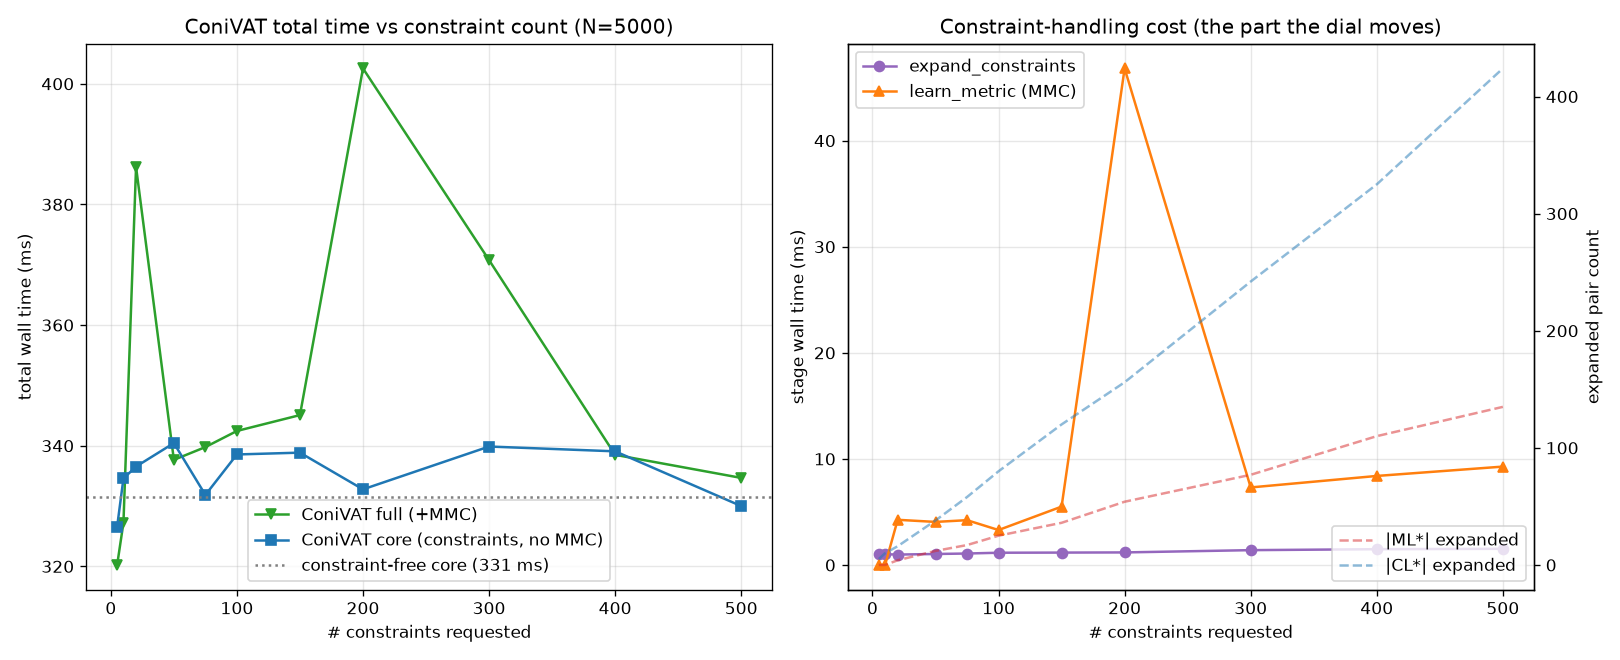
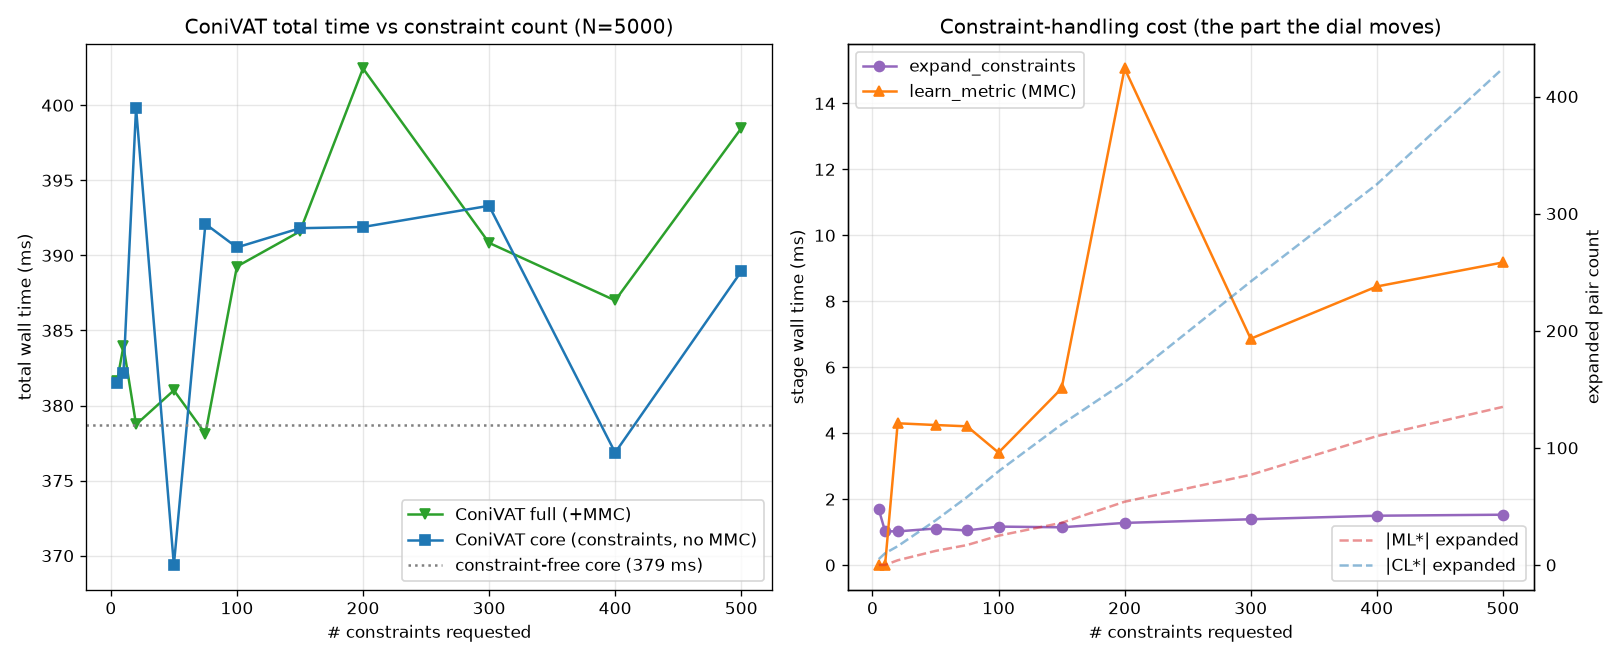
perf(conivat): cap MMC max_iters at 30 to bound metric-learning cost
The constraint-dial evaluation showed learn_metric occasionally spiking (~47 ms
at 200 constraints) while normally running ~3-9 ms. Root cause: on some
constraint sets the fixed-step projected-gradient objective oscillates instead
of meeting `tol`, so it ran the full 100-iteration cap. Well-conditioned sets
converge in <=~17 iterations, so lowering the default max_iters to 30 never
truncates a genuinely converging solve but bounds the oscillating worst case.
The 200-constraint point drops ~47 ms -> ~15 ms; MMC is now a stable few ms.

Re-ran experiments/conivat_constraint_scaling.py (figure refreshed) and updated
CONIVAT_FINDINGS.md. Tests green (26 conivat / 176 total).

Claude-Session: https://claude.ai/code/session_019bPW7aTjXpJn4nEXABoDX2

diff --git a/src/tribbleclustering/conivat.py b/src/tribbleclustering/conivat.py
@@ -271,7 +271,7 @@ def learn_metric(
     must_link: ConstraintList,
     cannot_link: ConstraintList,
     *,
-    max_iters: int = 100,
+    max_iters: int = 30,
     learning_rate: float = 0.1,
     tol: float = 1e-4,
     projection_iters: int = 20,
@@ -290,7 +290,12 @@ def learn_metric(
     must_link, cannot_link : sequence of (int, int)
         The (already expanded) "similar" and "dissimilar" pairs.
     max_iters : int
-        Maximum gradient-ascent iterations.
+        Maximum gradient-ascent iterations. Kept deliberately small: the
+        fixed-step projected ascent converges within a handful of iterations on
+        well-conditioned constraint sets (empirically <=~17), but on some sets
+        the objective oscillates rather than meeting ``tol`` and would otherwise
+        run to the cap. Bounding it here keeps the (n-independent) metric-learning
+        cost stable instead of occasionally spiking to the full iteration count.
     learning_rate : float
         Gradient-ascent step size.
     tol : float

diff --git a/experiments/findings/CONIVAT_FINDINGS.md b/experiments/findings/CONIVAT_FINDINGS.md
@@ -163,16 +163,19 @@ O(n²) core (distances + iVAT transform is constraint-independent); they drive
 two n-independent stages: `expand_constraints` (transitive closure + pair
 expansion) and `learn_metric` (MMC).
 
+(`learn_metric` caps `max_iters` at 30 — see the MMC note below.)
+
 | #req | |ML*| | |CL*| | expand (ms) | MMC (ms) | core (ms) | full (ms) |
 |------|-------|-------|-------------|----------|-----------|-----------|
-| 5 | 0 | 5 | 1.0 | 0.0 | 327 | 320 |
-| 50 | 12 | 38 | 1.0 | 4.1 | 340 | 338 |
-| 100 | 25 | 80 | 1.2 | 3.3 | 339 | 342 |
-| 200 | 54 | 156 | 1.2 | 46.8 | 333 | 402 |
-| 300 | 77 | 242 | 1.4 | 7.3 | 340 | 371 |
-| 500 | 135 | 424 | 1.5 | 9.3 | 330 | 335 |
+| 5 | 0 | 5 | 1.7 | 0.0 | 382 | 382 |
+| 50 | 12 | 38 | 1.1 | 4.3 | 369 | 381 |
+| 100 | 25 | 80 | 1.2 | 3.4 | 391 | 389 |
+| 200 | 54 | 156 | 1.3 | 15.1 | 392 | 403 |
+| 300 | 77 | 242 | 1.4 | 6.9 | 393 | 391 |
+| 500 | 135 | 424 | 1.5 | 9.2 | 389 | 399 |
 
-Constraint-free core baseline: **331 ms**.
+Constraint-free core baseline: **379 ms** (machine noise vs. other runs; the
+core is constraint-independent).
 
 **Read-out.**
 - **The dial is essentially free.** Total ConiVAT time stays within ~±3% of the
@@ -187,18 +190,20 @@ Constraint-free core baseline: **331 ms**.
   with the request (up to 135 / 424 at 500), nowhere near the 100k safety cap.
   (A pathological input that must-links one whole cluster would expand
   quadratically — that is what the cap guards.)
-- **MMC cost is small but noisy.** `learn_metric` runs ~3–9 ms, with an outlier
-  at 200 constraints (≈47 ms). The spike is **convergence-iteration
-  variability**: MMC's projected gradient ascent runs a data-dependent number of
-  iterations (up to `max_iters`), and that depends on *which* pairs were drawn,
-  not just how many — so it is not a smooth function of the count. It never
-  dominates (worst case still <15% of total).
+- **MMC cost is small and now bounded.** `learn_metric` runs ~3–9 ms. It used
+  to spike to ≈47 ms at 200 constraints: on that particular constraint set the
+  projected-gradient objective **oscillates** rather than meeting `tol`, so it
+  ran the full (then-100) iteration cap. Well-conditioned sets converge fast
+  (≤~17 iters observed), so the fix is to **cap `max_iters` at 30** — it never
+  truncates a genuinely converging solve but bounds the oscillating worst case.
+  With the cap the 200-constraint point drops to ~15 ms (~3× smaller); MMC is
+  now a stable ~3–9 ms with no dramatic outlier.
 
 **Takeaway.** Unlike the N dial (quadratic), the constraint dial is cheap and
 roughly linear in the expanded-pair count over this range — you can add
 background knowledge freely without a meaningful runtime penalty at N=5000. The
-only thing to watch is MMC's data-dependent iteration count; capping
-`max_iters` (or a tighter tolerance) would remove the occasional spike.
+one wrinkle (MMC's data-dependent iteration count) is now capped, so
+constraint-handling cost is stable at a few ms regardless of the draw.
 
 ## Caveats / next steps
 